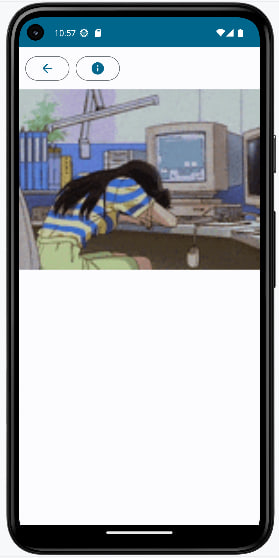
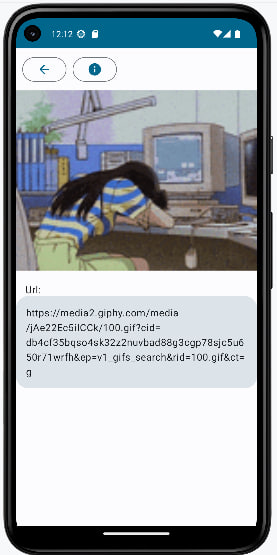
Added URL under gif

diff --git a/app/src/main/java/com/example/giphylike/ui/screens/GifDetailScreen.kt b/app/src/main/java/com/example/giphylike/ui/screens/GifDetailScreen.kt
@@ -11,13 +11,19 @@ import androidx.compose.foundation.layout.Row
 import androidx.compose.foundation.layout.Spacer
 import androidx.compose.foundation.layout.fillMaxSize
 import androidx.compose.foundation.layout.fillMaxWidth
+import androidx.compose.foundation.layout.padding
 import androidx.compose.foundation.layout.size
 import androidx.compose.foundation.rememberScrollState
+import androidx.compose.foundation.shape.RoundedCornerShape
 import androidx.compose.material.icons.Icons
 import androidx.compose.material.icons.rounded.ArrowBack
 import androidx.compose.material.icons.rounded.Info
+import androidx.compose.material3.ExperimentalMaterial3Api
 import androidx.compose.material3.Icon
 import androidx.compose.material3.OutlinedButton
+import androidx.compose.material3.Text
+import androidx.compose.material3.TextField
+import androidx.compose.material3.TextFieldDefaults
 import androidx.compose.runtime.Composable
 import androidx.compose.runtime.getValue
 import androidx.compose.runtime.mutableStateOf
@@ -34,7 +40,7 @@ import coil.annotation.ExperimentalCoilApi
 import coil.compose.rememberImagePainter
 import coil.decode.GifDecoder
 
-@OptIn(ExperimentalCoilApi::class)
+@OptIn(ExperimentalCoilApi::class, ExperimentalMaterial3Api::class)
 @Composable
 fun GifDetailScreen(gifUrl: String, navController: NavHostController) {
     val context = LocalContext.current
@@ -104,6 +110,18 @@ fun GifDetailScreen(gifUrl: String, navController: NavHostController) {
                     .clickable { isFullSize = !isFullSize }
             )
         }
-        Spacer(modifier = Modifier.size(30.dp))
+        Spacer(modifier = Modifier.size(20.dp))
+        Text(text = "Url: ", Modifier.padding(start = 15.dp))
+        TextField(
+            value = decodedUrl,
+            onValueChange = {},
+            readOnly = true,
+            shape = RoundedCornerShape(20.dp),
+            colors = TextFieldDefaults.textFieldColors(
+                disabledTextColor = Color.Transparent,
+                focusedIndicatorColor = Color.Transparent,
+                unfocusedIndicatorColor = Color.Transparent,
+            )
+        )
     }
 }
